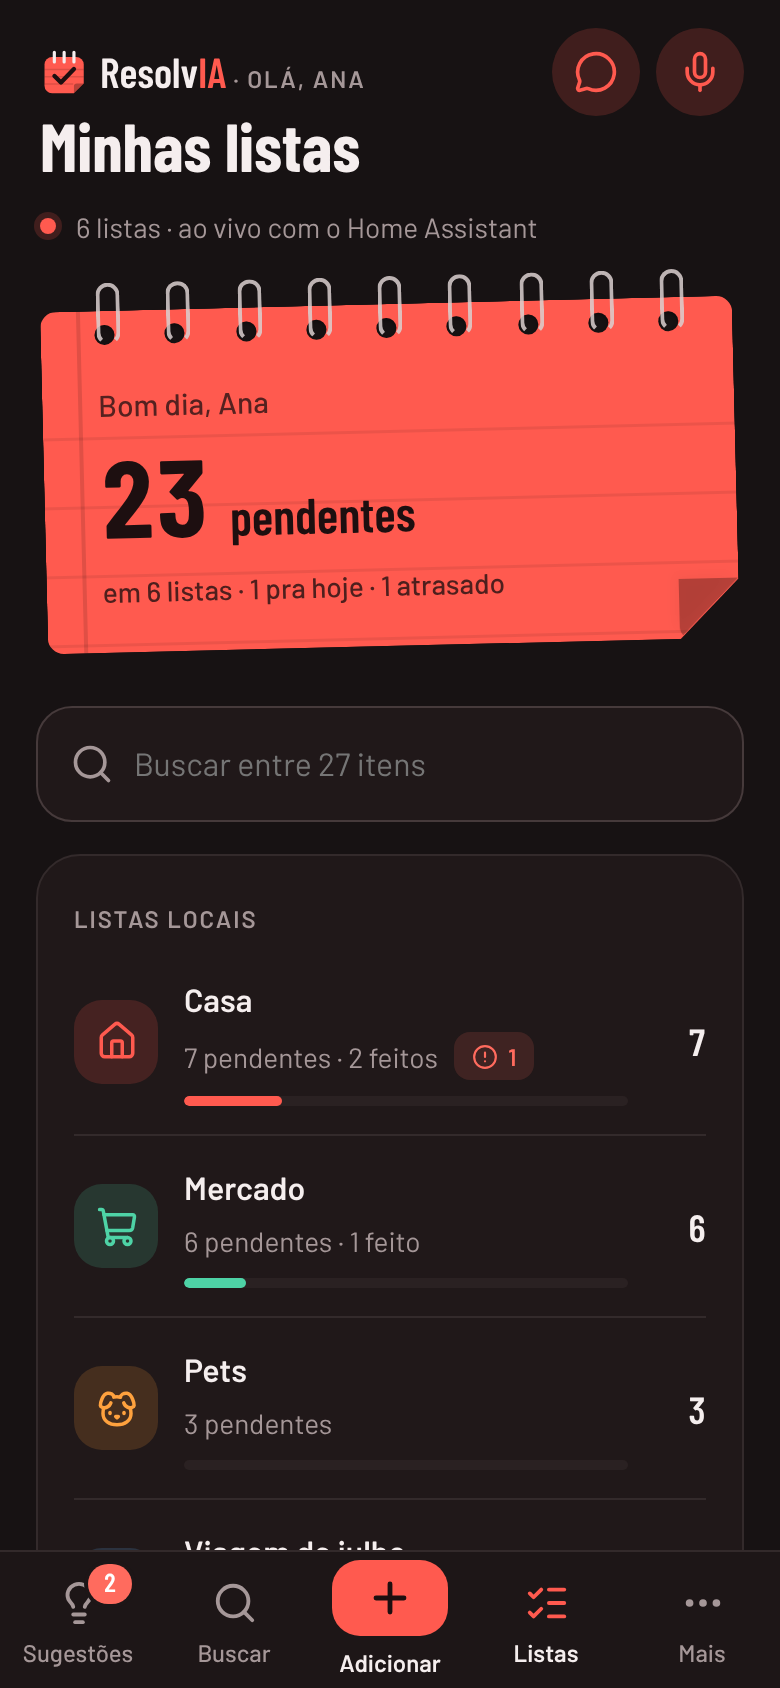
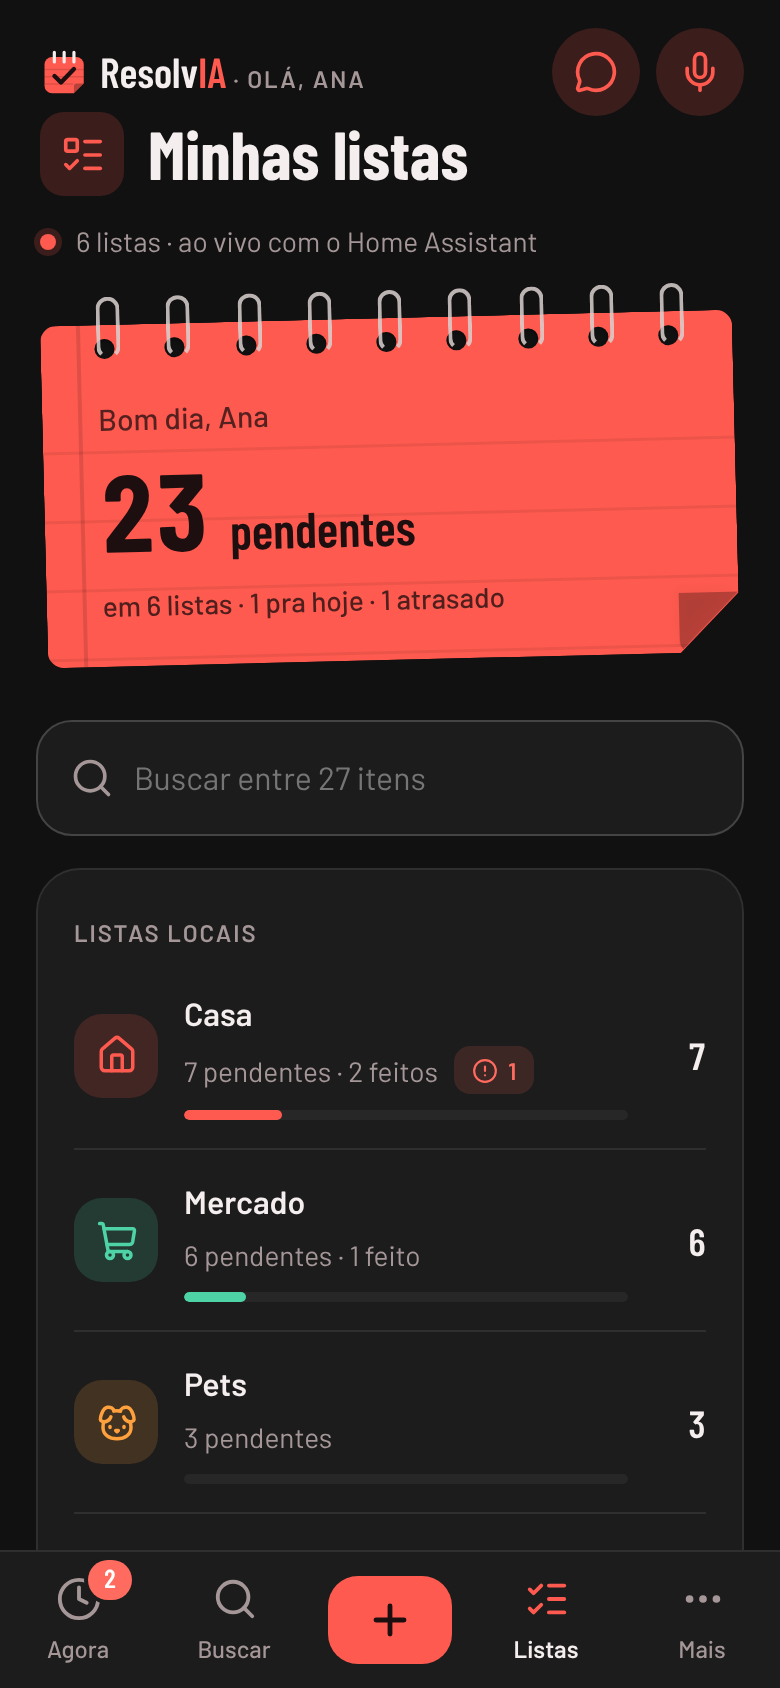
ResolvIA: o README e as telas em dia (o Agora, as fotos, o Agrupar por e a Memória da IA)
O tools/prints_readme.py manda os dados pela tela do app (pela moldura a conexão não abria) e faz também o agora.png.

Claude-Session: https://claude.ai/code/session_017hEteHByHThDBu4uLqG9Xn

diff --git a/tools/prints_readme.py b/tools/prints_readme.py
@@ -8,8 +8,8 @@ livres (pode rodar junto com os testes visuais), e põe listas, prazos, repetiç
 equipamentos e serviços externos de exemplo. Celular 390x844 em 2x (PNG 780x1688), tema escuro, a cor
 vermelha fixa (sem a Cor do dia), usuária "Ana", relógio parado às 10h de hoje.
 
-Telas: inicio.png (Minhas listas), lista.png (a lista Casa), item.png (Editar item) e importar.png
-(a revisão de uma mensagem lida pela IA). Com --todas, também graficos.png e conversa.png.
+Telas: inicio.png (Minhas listas), lista.png (a lista Casa), item.png (Editar item), importar.png
+(a revisão de uma mensagem lida pela IA) e agora.png (o Agora). Com --todas, também graficos.png e conversa.png.
 """
 import json
 import os
@@ -216,7 +216,9 @@ def main():
             pg.route(url + "moldura.html", lambda route: route.fulfill(content_type="text/html", body=FRAME))
             pg.goto(url + "moldura.html")
             pg.wait_for_timeout(1500)
-            ws = lambda m: pg.evaluate(WS, m)
+            # pela moldura (servida pelo Playwright) a conexão não abre: os dados vão pela tela do app, no quadro dela
+            pg.wait_for_function("document.querySelector('iframe') && document.querySelector('iframe').contentDocument && document.querySelector('iframe').contentDocument.readyState === 'complete'")
+            ws = lambda m: next(f for f in pg.frames if f != pg.main_frame).evaluate(WS, m)
 
             def ok(r, what):
                 if isinstance(r, dict) and "__error" in r:
@@ -288,6 +290,10 @@ def main():
             sheet.locator(".imp-row").first.wait_for()
             shot("importar.png", 900)
             close_sheet()
+            # Agora: o que está atrasado e vence hoje, por onde começar e os prazos
+            a.evaluate("(el) => el._go('')")
+            a.locator(".page-title").wait_for()
+            shot("agora.png", 1200)
 
             if ALL:
                 a.evaluate("(el) => el._go('/mais')")

diff --git a/README.md b/README.md
@@ -5,10 +5,11 @@
 Um App do Home Assistant que mostra suas **listas de tarefas nativas** (`todo.*`) num visual bem mais caprichado, traz **tarefas que voltam sozinhas** X dias depois de concluídas, liga as tarefas aos **cômodos e equipamentos** da casa e **lê itens de mensagens, fotos e fala** com IA.
 
 <p align="center">
-  <img src="docs/inicio.png" width="24%" alt="Minhas listas: o caderno, o Buscar e as listas">
-  <img src="docs/lista.png" width="24%" alt="Lista aberta com cômodos, equipamentos, prazos, repetição e pontos">
-  <img src="docs/item.png" width="24%" alt="Editar item: repetição, cômodo, equipamento e quem faz">
-  <img src="docs/importar.png" width="24%" alt="Itens lidos pela IA, cada um com a sua lista, cômodo e equipamento">
+  <img src="docs/agora.png" width="19%" alt="Agora: o que está atrasado, o que vence hoje e por onde começar">
+  <img src="docs/inicio.png" width="19%" alt="Minhas listas: o caderno, o Buscar e as listas">
+  <img src="docs/lista.png" width="19%" alt="Lista aberta com cômodos, equipamentos, prazos, repetição e pontos">
+  <img src="docs/item.png" width="19%" alt="Editar item: repetição, cômodo, equipamento e quem faz">
+  <img src="docs/importar.png" width="19%" alt="Itens lidos pela IA, cada um com a sua lista, cômodo e equipamento">
 </p>
 
 [![Adicionar o repositório ao Home Assistant](https://my.home-assistant.io/badges/supervisor_add_addon_repository.svg)](https://my.home-assistant.io/redirect/supervisor_add_addon_repository/?repository_url=https%3A%2F%2Fgithub.com%2Fdiegozapella63%2Fresolvia-ha)
@@ -29,15 +30,15 @@ A primeira instalação leva alguns minutos, porque o app é montado no próprio
 - **Listas** com um "caderno" (pendentes, para hoje, atrasados), o Buscar e as listas, as com mais pendências primeiro e **agrupadas por dispositivo**: "Notas e Rotinas do Alexa To-do list" vira **To-do list** no grupo *Notas e Rotinas do Alexa*. As ocultas ficam no fim, recolhidas em **Inativas (n)**.
 - **Lista aberta** com o campo de adicionar sempre à mão (colar várias linhas cria um item por linha), concluir com **Desfazer**, arrastar para reordenar, concluídos recolhidos e **Selecionar itens** para mover vários de lista.
 - **Links bonitos**: `Ver sobre: https://github.com/fulano/projeto` vira a etiqueta `fulano/projeto`.
-- **Editar item**: notas, prazo (**Outra data** abre um mês no visual do app) e horário (de meia em meia hora, sem AM/PM), repetição, cômodos, equipamentos, quem faz, pontos e mover para outra lista.
+- **Editar item**: notas, prazo (**Outra data** abre um mês no visual do app) e horário (de meia em meia hora, sem AM/PM), repetição, onde (**Nenhum**, **Casa** ou **Bens**), cômodos, equipamentos, quem faz, pontos, **fotos** (tirar ou escolher, até 6) e mover para outra lista. Cada campo fecha num toque no título e, fechado, mostra o que foi escolhido.
 - **Tarefas que voltam sozinhas**: "Passar pano" com repetição de 3 dias volta como pendente 3 dias depois de feito, mesmo se você concluir pela Alexa (ligue em **Mais › Configurações › Opções › Repetição**).
 - **Ler com IA**: cole uma mensagem do WhatsApp, escolha fotos ou digitalize uma lista em papel; a IA do Home Assistant (Claude, OpenAI, Gemini ou Ollama) separa os itens e sugere a lista, o cômodo e o equipamento de cada um, e você revisa antes de adicionar.
-- **Falar** e **Conversa com a IA**: fale os itens (o Home Assistant transcreve e a IA separa) ou pergunte sobre as listas ("o que está atrasado?") e peça para adicionar ou concluir; nada é feito sem o seu toque.
+- **Falar** e **Conversa com a IA**: fale os itens (o Home Assistant transcreve e a IA separa) ou pergunte sobre as listas ("o que está atrasado?") e peça para adicionar ou concluir; nada é feito sem o seu toque. A **Memória da IA** é uma só, da casa, compartilhada por todos os apps da família.
 - **Agora**, a tela inicial: o que está atrasado e vence hoje, por onde começar (com o motivo, ou escolhido pela IA) e o resto dos **prazos** de todas as listas, incluindo o que vai voltar sozinho, cada card com o seu ícone e na **ordem** que cada pessoa escolher; e um **aviso no celular** com o que vence hoje, no horário e para as pessoas que você escolher.
-- **Buscar** em todas as listas, sem ligar para acentos, também por cômodo, equipamento e quem faz.
+- **Buscar** em todas as listas, sem ligar para acentos, também por cômodo, equipamento e quem faz, **agrupado por lista, prazo ou cômodo**, com o **Selecionar** para mudar vários de uma vez.
 - **Cômodos e equipamentos** do InventarIA nas tarefas, sugeridos pela IA (ligue em **Mais › Configurações › Integrações**).
 - **Serviço externo**: marque quando alguém de fora vai fazer a tarefa (eletricista, assistência técnica). Quem não usa desliga em **Mais › Configurações › Opções**, como as **Notas**.
-- **CorrerIA**: pelo WhatsApp, o Claude e o Gemini, ver o que vence e criar, editar, concluir ou apagar tarefas (ligue em **Mais › Configurações › Integrações › CorrerIA**; precisa do app CorrerIA).
+- **CorrerIA**: pelo WhatsApp, o Claude e o Gemini, ver o que vence e criar, editar, concluir ou apagar tarefas e listas, e as tarefas do cômodo em cada **Ronda da casa** (ligue em **Mais › Configurações › Integrações › CorrerIA**; precisa do app CorrerIA).
 - **Recompensas**: cada tarefa pode valer pontos no placar do CronologIA para quem concluir, e as **manutenções e rotinas** de lá viram tarefas aqui (concluir aqui vale como feito lá, e a tarefa volta com a próxima data).
 - **Mais** é um menu, como nos outros apps da família: **Listas** (nome, cor, ícone e quais aparecem), **Gráficos** (pendências por lista, cômodo, equipamento, prazo e quem faz), **Relatório de pendências** (página e PDF), **Configurações** (Integrações, Dados, Aparência e Opções) e **Sobre**.
 - **Dados**: exportar em ZIP, CSV ou JSON, backup em `share/resolvia`, importar (repõe os itens que faltarem, sem duplicar), versões anteriores automáticas e **Começar do zero**.
